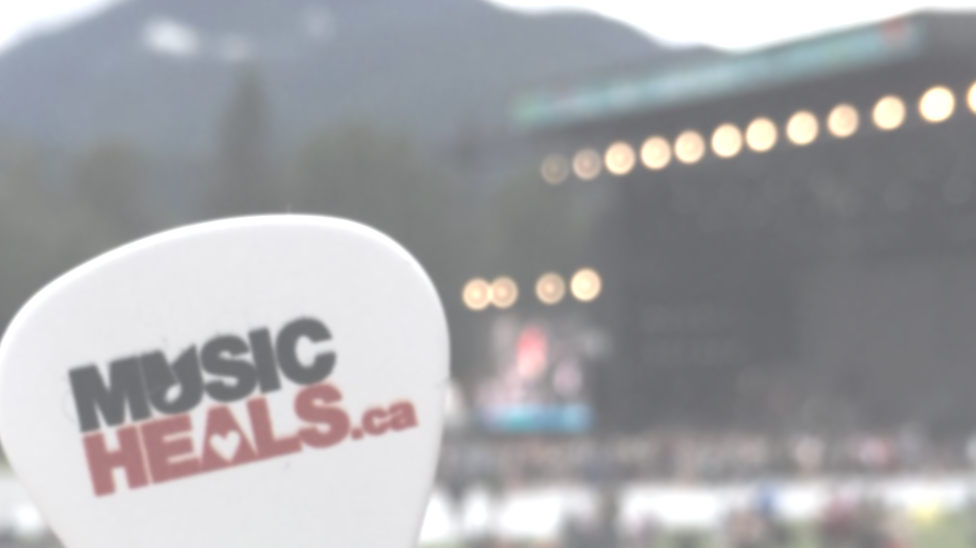
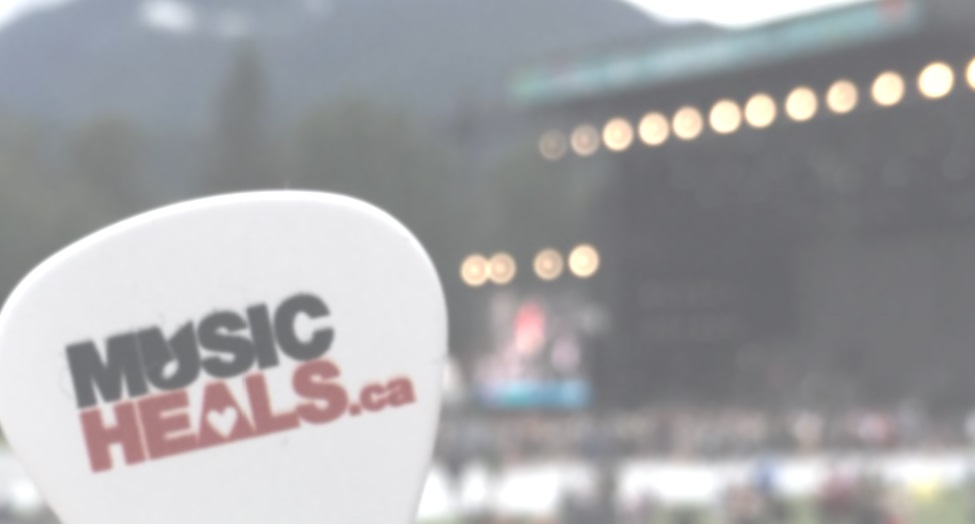
Modify header, fine-tune styles.

diff --git a/wp-content/themes/music-heals/build/css/style.min.css b/wp-content/themes/music-heals/build/css/style.min.css
@@ -17,4 +17,4 @@ Underscores is distributed under the terms of the GNU GPL v2 or later.
 
 Normalizing styles have been helped along thanks to the fine work of
 Nicolas Gallagher and Jonathan Neal http://necolas.github.com/normalize.css/
-*/hr,img,legend{border:0}legend,td,th{padding:0}hr,p{margin-bottom:1.5em}pre,textarea{overflow:auto}.clearfix,blockquote:after,blockquote:before,q:after,q:before{content:""}.widget select,.wp-caption,embed,iframe,img,object,pre{max-width:100%}html{font-family:sans-serif;-webkit-text-size-adjust:100%;-ms-text-size-adjust:100%}body{margin:0;background:#fff}article,aside,details,figcaption,figure,footer,header,main,menu,nav,section,summary{display:block}audio,canvas,progress,video{display:inline-block;vertical-align:baseline}audio:not([controls]){display:none;height:0}[hidden],template{display:none}a{background-color:transparent;color:#4169e1}abbr[title]{border-bottom:1px dotted}b,optgroup,strong{font-weight:700}cite,dfn,em,i{font-style:italic}h1{font-size:2em;margin:.67em 0}mark{color:#000}small{font-size:80%}sub,sup{font-size:75%;line-height:0;position:relative;vertical-align:baseline}sup{top:-.5em}sub{bottom:-.25em}img{height:auto}svg:not(:root){overflow:hidden}figure{margin:1em 40px}hr{box-sizing:content-box;background-color:#ccc;height:1px}code,kbd,pre,samp{font-family:monospace,monospace;font-size:1em}button,input,optgroup,select,textarea{color:inherit;font:inherit;margin:0}button{overflow:visible}button,select{text-transform:none}button,html input[type=button],input[type=reset],input[type=submit]{-webkit-appearance:button;cursor:pointer}button[disabled],html input[disabled]{cursor:default}button::-moz-focus-inner,input::-moz-focus-inner{border:0;padding:0}input[type=checkbox],input[type=radio]{box-sizing:border-box;padding:0}input[type=number]::-webkit-inner-spin-button,input[type=number]::-webkit-outer-spin-button{height:auto}input[type=search]{-webkit-appearance:textfield;box-sizing:content-box}input[type=search]::-webkit-search-cancel-button,input[type=search]::-webkit-search-decoration{-webkit-appearance:none}fieldset{border:1px solid silver;margin:0 2px;padding:.35em .625em .75em}textarea{padding-left:3px;width:100%}body,button,input,select,textarea{color:#404040;font-family:sans-serif;font-size:16px;font-size:1rem;line-height:1.5}h1,h2,h3,h4,h5,h6{clear:both}blockquote{margin:0 1.5em}address{margin:0 0 1.5em}pre{background:#eee;font-family:"Courier 10 Pitch",Courier,monospace;font-size:15px;font-size:.9375rem;line-height:1.6;margin-bottom:1.6em;padding:1.6em}code,kbd,tt,var{font-family:Monaco,Consolas,"Andale Mono","DejaVu Sans Mono",monospace;font-size:15px;font-size:.9375rem}abbr,acronym{border-bottom:1px dotted #666;cursor:help}ins,mark{background:#fff9c0;text-decoration:none}big{font-size:125%}html{box-sizing:border-box;font-size:16px;font-size:1rem}*,:after,:before{box-sizing:inherit}blockquote,q{quotes:"" ""}ol,ul{margin:0 0 1.5em 3em}ul{list-style:disc}ol{list-style:decimal}li>ol,li>ul{margin-bottom:0;margin-left:1.5em}dt{font-weight:700}dd{margin:0 1.5em 1.5em}table{border-collapse:collapse;border-spacing:0;margin:0 0 1.5em;width:100%}button,input[type=button],input[type=reset],input[type=submit]{border:1px solid;border-color:#ccc #ccc #bbb;border-radius:3px;background:#e6e6e6;box-shadow:inset 0 1px 0 rgba(255,255,255,.5),inset 0 15px 17px rgba(255,255,255,.5),inset 0 -5px 12px rgba(0,0,0,.05);color:rgba(0,0,0,.8);font-size:12px;font-size:.75rem;line-height:1;padding:.6em 1em .4em;text-shadow:0 1px 0 rgba(255,255,255,.8)}button:hover,input[type=button]:hover,input[type=reset]:hover,input[type=submit]:hover{border-color:#ccc #bbb #aaa;box-shadow:inset 0 1px 0 rgba(255,255,255,.8),inset 0 15px 17px rgba(255,255,255,.8),inset 0 -5px 12px rgba(0,0,0,.02)}button:active,button:focus,input[type=button]:active,input[type=button]:focus,input[type=reset]:active,input[type=reset]:focus,input[type=submit]:active,input[type=submit]:focus{border-color:#aaa #bbb #bbb;box-shadow:inset 0 -1px 0 rgba(255,255,255,.5),inset 0 2px 5px rgba(0,0,0,.15)}input[type=text],input[type=email],input[type=url],input[type=password],input[type=search],textarea{color:#666;border:1px solid #ccc;border-radius:3px}input[type=text]:focus,input[type=email]:focus,input[type=url]:focus,input[type=password]:focus,input[type=search]:focus,textarea:focus{color:#111}input[type=text],input[type=email],input[type=url],input[type=password],input[type=search]{padding:3px}a:visited{color:purple}a:active,a:focus,a:hover{color:#191970}a:focus{outline:dotted thin}a:active,a:hover{outline:0}.main-navigation{clear:both;display:block;float:left;width:100%}.main-navigation ul{display:none;list-style:none;margin:0;padding-left:0}.main-navigation ul ul{box-shadow:0 3px 3px rgba(0,0,0,.2);float:left;position:absolute;top:1.5em;left:-999em;z-index:99999}.main-navigation ul ul ul{left:-999em;top:0}.main-navigation ul ul li.focus>ul,.main-navigation ul ul li:hover>ul{left:100%}.main-navigation ul ul a{width:200px}.main-navigation ul li.focus>ul,.main-navigation ul li:hover>ul{left:auto}.main-navigation li{float:left;position:relative}.main-navigation a{display:block;text-decoration:none}.main-navigation.toggled ul,.menu-toggle{display:block}@media screen and (min-width:37.5em){.menu-toggle{display:none}.main-navigation ul{display:block}}.site-main .comment-navigation,.site-main .post-navigation,.site-main .posts-navigation{margin:0 0 1.5em;overflow:hidden}.comment-navigation .nav-previous,.post-navigation .nav-previous,.posts-navigation .nav-previous{float:left;width:50%}.comment-navigation .nav-next,.post-navigation .nav-next,.posts-navigation .nav-next{float:right;text-align:right;width:50%}.site-content{height:90vh;width:100vw}.screen-reader-text{clip:rect(1px,1px,1px,1px);position:absolute!important;height:1px;width:1px;overflow:hidden}.screen-reader-text:focus{background-color:#f1f1f1;border-radius:3px;box-shadow:0 0 2px 2px rgba(0,0,0,.6);clip:auto!important;color:#21759b;display:block;font-size:14px;font-size:.875rem;font-weight:700;height:auto;left:5px;line-height:normal;padding:15px 23px 14px;text-decoration:none;top:5px;width:auto;z-index:100000}.logo img,.site-branding{background:0 0}.alignleft{display:inline;float:left;margin-right:1.5em}.alignright{display:inline;float:right;margin-left:1.5em}.aligncenter{clear:both;display:block;margin-left:auto;margin-right:auto}.hentry,.widget{margin:0 0 1.5em}.clearfix{clear:both;display:table}.widget_search .search-submit{display:none}.site-branding{display:-webkit-flex;display:-ms-flexbox;display:flex;-webkit-flex-direction:row;-ms-flex-direction:row;flex-direction:row;-webkit-justify-content:space-around;-ms-flex-pack:distribute;justify-content:space-around}.menu{width:30px}.logo{width:70px}.sticky{display:block}.updated:not(.published){display:none}.group-blog .byline,.single .byline{display:inline}.entry-content,.entry-summary,.page-content{margin:1.5em 0 0}.page-links{clear:both;margin:0 0 1.5em}.archive .format-aside .entry-title,.blog .format-aside .entry-title{display:none}.comment-content a{word-wrap:break-word}.bypostauthor{display:block}.comment-content .wp-smiley,.entry-content .wp-smiley,.page-content .wp-smiley{border:none;margin-bottom:0;margin-top:0;padding:0}.header-text,.tagline-text{font-family:sans-serif;padding:1rem 2rem;line-height:1;text-align:center}.wp-caption{margin-bottom:1.5em}.wp-caption img[class*=wp-image-]{display:block;margin-left:auto;margin-right:auto}.wp-caption .wp-caption-text{margin:.8075em 0}.wp-caption-text{text-align:center}.gallery{margin-bottom:1.5em}.gallery-item{display:inline-block;text-align:center;vertical-align:top;width:100%}.gallery-columns-2 .gallery-item{max-width:50%}.gallery-columns-3 .gallery-item{max-width:33.33%}.gallery-columns-4 .gallery-item{max-width:25%}.gallery-columns-5 .gallery-item{max-width:20%}.gallery-columns-6 .gallery-item{max-width:16.66%}.gallery-columns-7 .gallery-item{max-width:14.28%}.gallery-columns-8 .gallery-item{max-width:12.5%}.gallery-columns-9 .gallery-item{max-width:11.11%}.gallery-caption{display:block}.text-wrapper,.video-box{display:-webkit-flex;display:-ms-flexbox}.video-box{background:url(../../assets/Home_image1.jpg) center no-repeat;background-size:contain;overflow:visible;height:300px;display:flex;-webkit-justify-content:center;-ms-flex-pack:center;justify-content:center;-webkit-align-items:center;-ms-flex-align:center;align-items:center}.text-wrapper{background-color:rgba(255,255,255,.6);display:flex;-webkit-flex-direction:column;-ms-flex-direction:column;flex-direction:column;-webkit-justify-content:center;-ms-flex-pack:center;justify-content:center;-webkit-align-self:center;-ms-flex-item-align:center;align-self:center;margin:1rem 2rem}.header-text h1,.tagline-text p{opacity:1;color:#000;margin:.25em 0}.tagline-text p{font-weight:500}.tagline-text span{font-style:italic}.donations-box{background:url('../../assets/Home_Gift box.svg') center no-repeat;background-size:contain;height:300px;display:-webkit-flex;display:-ms-flexbox;display:flex;-webkit-flex-direction:column;-ms-flex-direction:column;flex-direction:column;-webkit-align-items:center;-ms-flex-align:center;align-items:center;-webkit-justify-content:center;-ms-flex-pack:center;justify-content:center;text-align:center}.donations-box h1{color:#fff;font-size:36px;font-weight:700;text-transform:uppercase;padding:0 1rem;line-height:1.25}.donations-box button{color:#DB1921;font-size:15px;font-weight:600;background-color:rgba(255,255,255,.7);border:2px solid #000;text-shadow:none;box-shadow:none;padding:.75rem 2.5rem}
+*/hr,img,legend{border:0}legend,td,th{padding:0}hr,p{margin-bottom:1.5em}pre,textarea{overflow:auto}.clearfix,blockquote:after,blockquote:before,q:after,q:before{content:""}.main-navigation a,.screen-reader-text:focus{text-decoration:none;display:block}.widget select,.wp-caption,embed,iframe,img,object,pre{max-width:100%}html{font-family:sans-serif;-webkit-text-size-adjust:100%;-ms-text-size-adjust:100%}body{margin:0;background:#fff}article,aside,details,figcaption,figure,footer,header,main,menu,nav,section,summary{display:block}audio,canvas,progress,video{display:inline-block;vertical-align:baseline}audio:not([controls]){display:none;height:0}[hidden],template{display:none}a{background-color:transparent;color:#4169e1}abbr[title]{border-bottom:1px dotted}b,optgroup,strong{font-weight:700}cite,dfn,em,i{font-style:italic}h1{font-size:2em;margin:.67em 0}mark{color:#000}small{font-size:80%}sub,sup{font-size:75%;line-height:0;position:relative;vertical-align:baseline}sup{top:-.5em}sub{bottom:-.25em}img{height:auto}svg:not(:root){overflow:hidden}figure{margin:1em 40px}hr{box-sizing:content-box;background-color:#ccc;height:1px}code,kbd,pre,samp{font-family:monospace,monospace;font-size:1em}button,input,optgroup,select,textarea{color:inherit;font:inherit;margin:0}button{overflow:visible}button,select{text-transform:none}button,html input[type=button],input[type=reset],input[type=submit]{-webkit-appearance:button;cursor:pointer}button[disabled],html input[disabled]{cursor:default}button::-moz-focus-inner,input::-moz-focus-inner{border:0;padding:0}input[type=checkbox],input[type=radio]{box-sizing:border-box;padding:0}input[type=number]::-webkit-inner-spin-button,input[type=number]::-webkit-outer-spin-button{height:auto}input[type=search]{-webkit-appearance:textfield;box-sizing:content-box}input[type=search]::-webkit-search-cancel-button,input[type=search]::-webkit-search-decoration{-webkit-appearance:none}fieldset{border:1px solid silver;margin:0 2px;padding:.35em .625em .75em}textarea{padding-left:3px;width:100%}body,button,input,select,textarea{color:#404040;font-family:sans-serif;font-size:16px;font-size:1rem;line-height:1.5}h1,h2,h3,h4,h5,h6{clear:both}blockquote{margin:0 1.5em}address{margin:0 0 1.5em}pre{background:#eee;font-family:"Courier 10 Pitch",Courier,monospace;font-size:15px;font-size:.9375rem;line-height:1.6;margin-bottom:1.6em;padding:1.6em}code,kbd,tt,var{font-family:Monaco,Consolas,"Andale Mono","DejaVu Sans Mono",monospace;font-size:15px;font-size:.9375rem}abbr,acronym{border-bottom:1px dotted #666;cursor:help}ins,mark{background:#fff9c0;text-decoration:none}big{font-size:125%}html{box-sizing:border-box;font-size:16px;font-size:1rem}*,:after,:before{box-sizing:inherit}blockquote,q{quotes:"" ""}ol,ul{margin:0 0 1.5em 3em}ul{list-style:disc}ol{list-style:decimal}li>ol,li>ul{margin-bottom:0;margin-left:1.5em}dt{font-weight:700}dd{margin:0 1.5em 1.5em}table{border-collapse:collapse;border-spacing:0;margin:0 0 1.5em;width:100%}button,input[type=button],input[type=reset],input[type=submit]{border:1px solid;border-color:#ccc #ccc #bbb;border-radius:3px;background:#e6e6e6;box-shadow:inset 0 1px 0 rgba(255,255,255,.5),inset 0 15px 17px rgba(255,255,255,.5),inset 0 -5px 12px rgba(0,0,0,.05);color:rgba(0,0,0,.8);font-size:12px;font-size:.75rem;line-height:1;padding:.6em 1em .4em;text-shadow:0 1px 0 rgba(255,255,255,.8)}button:hover,input[type=button]:hover,input[type=reset]:hover,input[type=submit]:hover{border-color:#ccc #bbb #aaa;box-shadow:inset 0 1px 0 rgba(255,255,255,.8),inset 0 15px 17px rgba(255,255,255,.8),inset 0 -5px 12px rgba(0,0,0,.02)}button:active,button:focus,input[type=button]:active,input[type=button]:focus,input[type=reset]:active,input[type=reset]:focus,input[type=submit]:active,input[type=submit]:focus{border-color:#aaa #bbb #bbb;box-shadow:inset 0 -1px 0 rgba(255,255,255,.5),inset 0 2px 5px rgba(0,0,0,.15)}input[type=text],input[type=email],input[type=url],input[type=password],input[type=search],textarea{color:#666;border:1px solid #ccc;border-radius:3px}input[type=text]:focus,input[type=email]:focus,input[type=url]:focus,input[type=password]:focus,input[type=search]:focus,textarea:focus{color:#111}input[type=text],input[type=email],input[type=url],input[type=password],input[type=search]{padding:3px}a:visited{color:purple}a:active,a:focus,a:hover{color:#191970}a:focus{outline:dotted thin}a:active,a:hover{outline:0}.main-navigation{clear:both;display:block;float:left;width:100%}.main-navigation ul{display:none;list-style:none;margin:0;padding-left:0}.main-navigation ul ul{box-shadow:0 3px 3px rgba(0,0,0,.2);float:left;position:absolute;top:1.5em;left:-999em;z-index:99999}.main-navigation ul ul ul{left:-999em;top:0}.main-navigation ul ul li.focus>ul,.main-navigation ul ul li:hover>ul{left:100%}.main-navigation ul ul a{width:200px}.main-navigation ul li.focus>ul,.main-navigation ul li:hover>ul{left:auto}.main-navigation li{float:left;position:relative}.main-navigation.toggled ul,.menu-toggle{display:block}@media screen and (min-width:37.5em){.menu-toggle{display:none}.main-navigation ul{display:block}}.site-main .comment-navigation,.site-main .post-navigation,.site-main .posts-navigation{margin:0 0 1.5em;overflow:hidden}.comment-navigation .nav-previous,.post-navigation .nav-previous,.posts-navigation .nav-previous{float:left;width:50%}.comment-navigation .nav-next,.post-navigation .nav-next,.posts-navigation .nav-next{float:right;text-align:right;width:50%}.site-content{height:90vh;width:100vw}.screen-reader-text{clip:rect(1px,1px,1px,1px);position:absolute!important;height:1px;width:1px;overflow:hidden}.screen-reader-text:focus{background-color:#f1f1f1;border-radius:3px;box-shadow:0 0 2px 2px rgba(0,0,0,.6);clip:auto!important;color:#21759b;font-size:14px;font-size:.875rem;font-weight:700;height:auto;left:5px;line-height:normal;padding:15px 23px 14px;top:5px;width:auto;z-index:100000}.header-text,.tagline-text{line-height:1;text-align:center}.alignleft{display:inline;float:left;margin-right:1.5em}.alignright{display:inline;float:right;margin-left:1.5em}.aligncenter{clear:both;display:block;margin-left:auto;margin-right:auto}.clearfix{clear:both;display:table}.widget{margin:0 0 1.5em}.widget_search .search-submit{display:none}.site-branding{display:-webkit-flex;display:-ms-flexbox;display:flex;-webkit-flex-direction:row;-ms-flex-direction:row;flex-direction:row;-webkit-justify-content:space-between;-ms-flex-pack:justify;justify-content:space-between;-webkit-align-items:center;-ms-flex-align:center;align-items:center;background:url(../../assets/Home_image1.jpg) top no-repeat;background-size:cover,contain;height:50px;width:100%;position:fixed;z-index:100}.menu{width:30px}.logo{width:90px;margin:0 auto;padding-right:1rem}.logo img{background:0 0}.sticky{display:block}.hentry{margin:0 0 1.5em}.updated:not(.published){display:none}.group-blog .byline,.single .byline{display:inline}.entry-content,.entry-summary,.page-content{margin:1.5em 0 0}.page-links{clear:both;margin:0 0 1.5em}.archive .format-aside .entry-title,.blog .format-aside .entry-title{display:none}.comment-content a{word-wrap:break-word}.bypostauthor{display:block}.comment-content .wp-smiley,.entry-content .wp-smiley,.page-content .wp-smiley{border:none;margin-bottom:0;margin-top:0;padding:0}.wp-caption{margin-bottom:1.5em}.wp-caption img[class*=wp-image-]{display:block;margin-left:auto;margin-right:auto}.wp-caption .wp-caption-text{margin:.8075em 0}.wp-caption-text{text-align:center}.gallery{margin-bottom:1.5em}.gallery-item{display:inline-block;text-align:center;vertical-align:top;width:100%}.gallery-columns-2 .gallery-item{max-width:50%}.gallery-columns-3 .gallery-item{max-width:33.33%}.gallery-columns-4 .gallery-item{max-width:25%}.gallery-columns-5 .gallery-item{max-width:20%}.gallery-columns-6 .gallery-item{max-width:16.66%}.gallery-columns-7 .gallery-item{max-width:14.28%}.gallery-columns-8 .gallery-item{max-width:12.5%}.gallery-columns-9 .gallery-item{max-width:11.11%}.donations-box,.video-box{height:230px;max-width:100%;position:relative}.gallery-caption{display:block}.text-wrapper,.video-box{display:-webkit-flex;display:-ms-flexbox}.video-box{background:url(../../assets/Home_image1.jpg) top no-repeat;background-size:cover,contain;border-bottom:4px solid #fff;overflow:visible;display:flex;-webkit-justify-content:center;-ms-flex-pack:center;justify-content:center;-webkit-align-items:center;-ms-flex-align:center;align-items:center;-webkit-flex:1 0 100%;-ms-flex:1 0 100%;flex:1 0 100%}.text-wrapper{background-color:rgba(255,255,255,.6);margin:1rem 2rem;display:flex;-webkit-flex-direction:column;-ms-flex-direction:column;flex-direction:column;-webkit-justify-content:center;-ms-flex-pack:center;justify-content:center;-webkit-align-self:center;-ms-flex-item-align:center;align-self:center;font-family:Catamaran,sans-serif;letter-spacing:1px;padding-top:2.5rem}.header-text h1,.tagline-text p{opacity:1;color:#000;margin:.25em 0}.header-text{padding:0 2rem}.tagline-text{padding:.5rem 2rem}.tagline-text p{font-weight:500}.tagline-text span{font-style:italic}.donations-box{background:url('../../assets/Home_Gift box.svg') center no-repeat;background-size:cover,contain;border-top:4px solid #fff;display:-webkit-flex;display:-ms-flexbox;display:flex;-webkit-flex-direction:column;-ms-flex-direction:column;flex-direction:column;-webkit-align-items:center;-ms-flex-align:center;align-items:center;-webkit-justify-content:center;-ms-flex-pack:center;justify-content:center;-webkit-flex:1 0 100%;-ms-flex:1 0 100%;flex:1 0 100%;font-family:Catamaran,sans-serif;letter-spacing:1px;text-align:center}.donations-box h1{color:#fff;font-size:36px;font-weight:700;text-transform:uppercase;padding:0 1rem;line-height:1.25}.donations-box button{color:#DB1921;font-size:15px;font-weight:600;background-color:rgba(255,255,255,.7);border:2px solid #000;text-shadow:none;box-shadow:none;padding:.75rem 2.5rem}

diff --git a/wp-content/themes/music-heals/style.css b/wp-content/themes/music-heals/style.css
@@ -565,16 +565,26 @@ a {
   -webkit-flex-direction: row;
       -ms-flex-direction: row;
           flex-direction: row;
-  -webkit-justify-content: space-around;
-      -ms-flex-pack: distribute;
-          justify-content: space-around;
-  background: transparent; }
+  -webkit-justify-content: space-between;
+      -ms-flex-pack: justify;
+          justify-content: space-between;
+  -webkit-align-items: center;
+      -ms-flex-align: center;
+          align-items: center;
+  background: url("../../assets/Home_image1.jpg") no-repeat top;
+  background-size: cover, contain;
+  height: 50px;
+  width: 100%;
+  position: fixed;
+  z-index: 100; }
 
 .menu {
   width: 30px; }
 
 .logo {
-  width: 70px; }
+  width: 90px;
+  margin: 0 auto;
+  padding-right: 1rem; }
   .logo img {
     background: transparent; }
 
@@ -681,10 +691,11 @@ object {
 --------------------------------------------------------------*/
 /* Front page */
 .video-box {
-  background: url("../../assets/Home_image1.jpg") no-repeat center;
-  background-size: contain;
+  background: url("../../assets/Home_image1.jpg") no-repeat top;
+  background-size: cover, contain;
+  border-bottom: 4px solid white;
   overflow: visible;
-  height: 300px;
+  height: 230px;
   display: -webkit-flex;
   display: -ms-flexbox;
   display: flex;
@@ -693,14 +704,16 @@ object {
           justify-content: center;
   -webkit-align-items: center;
       -ms-flex-align: center;
-          align-items: center; }
+          align-items: center;
+  -webkit-flex: 1 0 100%;
+      -ms-flex: 1 0 100%;
+          flex: 1 0 100%;
+  max-width: 100%;
+  position: relative; }
 
 .text-wrapper {
   background-color: rgba(255, 255, 255, 0.6);
-  margin-top: 1rem;
-  margin-right: 2rem;
-  margin-left: 2rem;
-  margin-bottom: 1rem;
+  margin: 1rem 2rem;
   display: -webkit-flex;
   display: -ms-flexbox;
   display: flex;
@@ -712,12 +725,14 @@ object {
           justify-content: center;
   -webkit-align-self: center;
       -ms-flex-item-align: center;
-          align-self: center; }
+          align-self: center;
+  font-family: 'Catamaran', sans-serif;
+  letter-spacing: 1px;
+  padding-top: 2.5rem; }
 
 .header-text {
-  font-family: sans-serif;
   text-align: center;
-  padding: 1rem 2rem;
+  padding: 0 2rem;
   line-height: 1; }
   .header-text h1 {
     opacity: 1;
@@ -725,9 +740,8 @@ object {
     margin: .25em 0; }
 
 .tagline-text {
-  font-family: sans-serif;
   text-align: center;
-  padding: 1rem 2rem;
+  padding: .5rem 2rem;
   line-height: 1; }
   .tagline-text p {
     opacity: 1;
@@ -739,8 +753,9 @@ object {
 
 .donations-box {
   background: url("../../assets/Home_Gift box.svg") no-repeat center;
-  background-size: contain;
-  height: 300px;
+  background-size: cover, contain;
+  border-top: 4px solid white;
+  height: 230px;
   display: -webkit-flex;
   display: -ms-flexbox;
   display: flex;
@@ -753,7 +768,14 @@ object {
   -webkit-justify-content: center;
       -ms-flex-pack: center;
           justify-content: center;
-  text-align: center; }
+  -webkit-flex: 1 0 100%;
+      -ms-flex: 1 0 100%;
+          flex: 1 0 100%;
+  max-width: 100%;
+  font-family: 'Catamaran', sans-serif;
+  letter-spacing: 1px;
+  text-align: center;
+  position: relative; }
   .donations-box h1 {
     color: white;
     font-size: 36px;

diff --git a/wp-content/themes/music-heals/sass/_frontpage.scss b/wp-content/themes/music-heals/sass/_frontpage.scss
@@ -8,31 +8,35 @@
 // Mission Statement //
 
 .video-box {
-  background: url('../../assets/Home_image1.jpg') no-repeat center;
-  background-size: contain;
+  background: url('../../assets/Home_image1.jpg') no-repeat top;
+  background-size: cover, contain;
+  border-bottom: 4px solid white;
   overflow: visible;
-  height: 300px;
+  height: 230px;
   display: flex;
   justify-content: center;
   align-items: center;
+  flex: 1 0 100%;
+  max-width: 100%;
+  position: relative;
+
 }
 
 .text-wrapper {
   background-color: rgba(255,255,255, 0.6);
-  margin-top: 1rem;
-  margin-right: 2rem;
-  margin-left: 2rem;
-  margin-bottom: 1rem;
+  margin: 1rem 2rem;
   display: flex;
   flex-direction: column;
   justify-content: center;
   align-self: center;
+  font-family: 'Catamaran', sans-serif;
+  letter-spacing: 1px;
+  padding-top: 2.5rem;
 }
 
 .header-text {
-  font-family: sans-serif;
   text-align: center;
-  padding: 1rem 2rem;
+  padding: 0 2rem;
   line-height: 1;
   h1 {
     opacity: 1;
@@ -42,9 +46,8 @@
 }
 
 .tagline-text {
-  font-family: sans-serif;
   text-align: center;
-  padding: 1rem 2rem;
+  padding: .5rem 2rem;
   line-height: 1;
   p {
     opacity: 1;
@@ -62,13 +65,19 @@
 
 .donations-box {
   background: url('../../assets/Home_Gift box.svg') no-repeat center;
-  background-size: contain;
-  height: 300px;
+  background-size: cover, contain;
+  border-top: 4px solid white;
+  height: 230px;
   display: flex;
   flex-direction: column;
   align-items: center;
   justify-content: center;
+  flex: 1 0 100%;
+  max-width: 100%;
+  font-family: 'Catamaran', sans-serif;
+  letter-spacing: 1px;
   text-align: center;
+  position: relative;
 
   h1 {
     color: white;

diff --git a/wp-content/themes/music-heals/sass/_header.scss b/wp-content/themes/music-heals/sass/_header.scss
@@ -1,8 +1,14 @@
 .site-branding {
   display: flex;
   flex-direction: row;
-  justify-content: space-around;
-  background: transparent;
+  justify-content: space-between;
+  align-items: center;
+  background: url('../../assets/Home_image1.jpg') no-repeat top;
+  background-size: cover, contain;
+  height: 50px;
+  width: 100%;
+  position: fixed;
+  z-index: 100;
 }
 
 .menu {
@@ -11,7 +17,9 @@
 }
 
 .logo {
-  width: 70px;
+  width: 90px;
+  margin: 0 auto;
+  padding-right: 1rem;
 
   img {
     background: transparent;

diff --git a/wp-content/themes/music-heals/header.php b/wp-content/themes/music-heals/header.php
@@ -12,6 +12,7 @@
 		<meta name="viewport" content="width=device-width, initial-scale=1">
 		<link rel="profile" href="http://gmpg.org/xfn/11">
 		<link rel="pingback" href="<?php bloginfo( 'pingback_url' ); ?>">
+		<link href='https://fonts.googleapis.com/css?family=Catamaran' rel='stylesheet' type='text/css'>
 
 	<?php wp_head(); ?>
 	</head>
